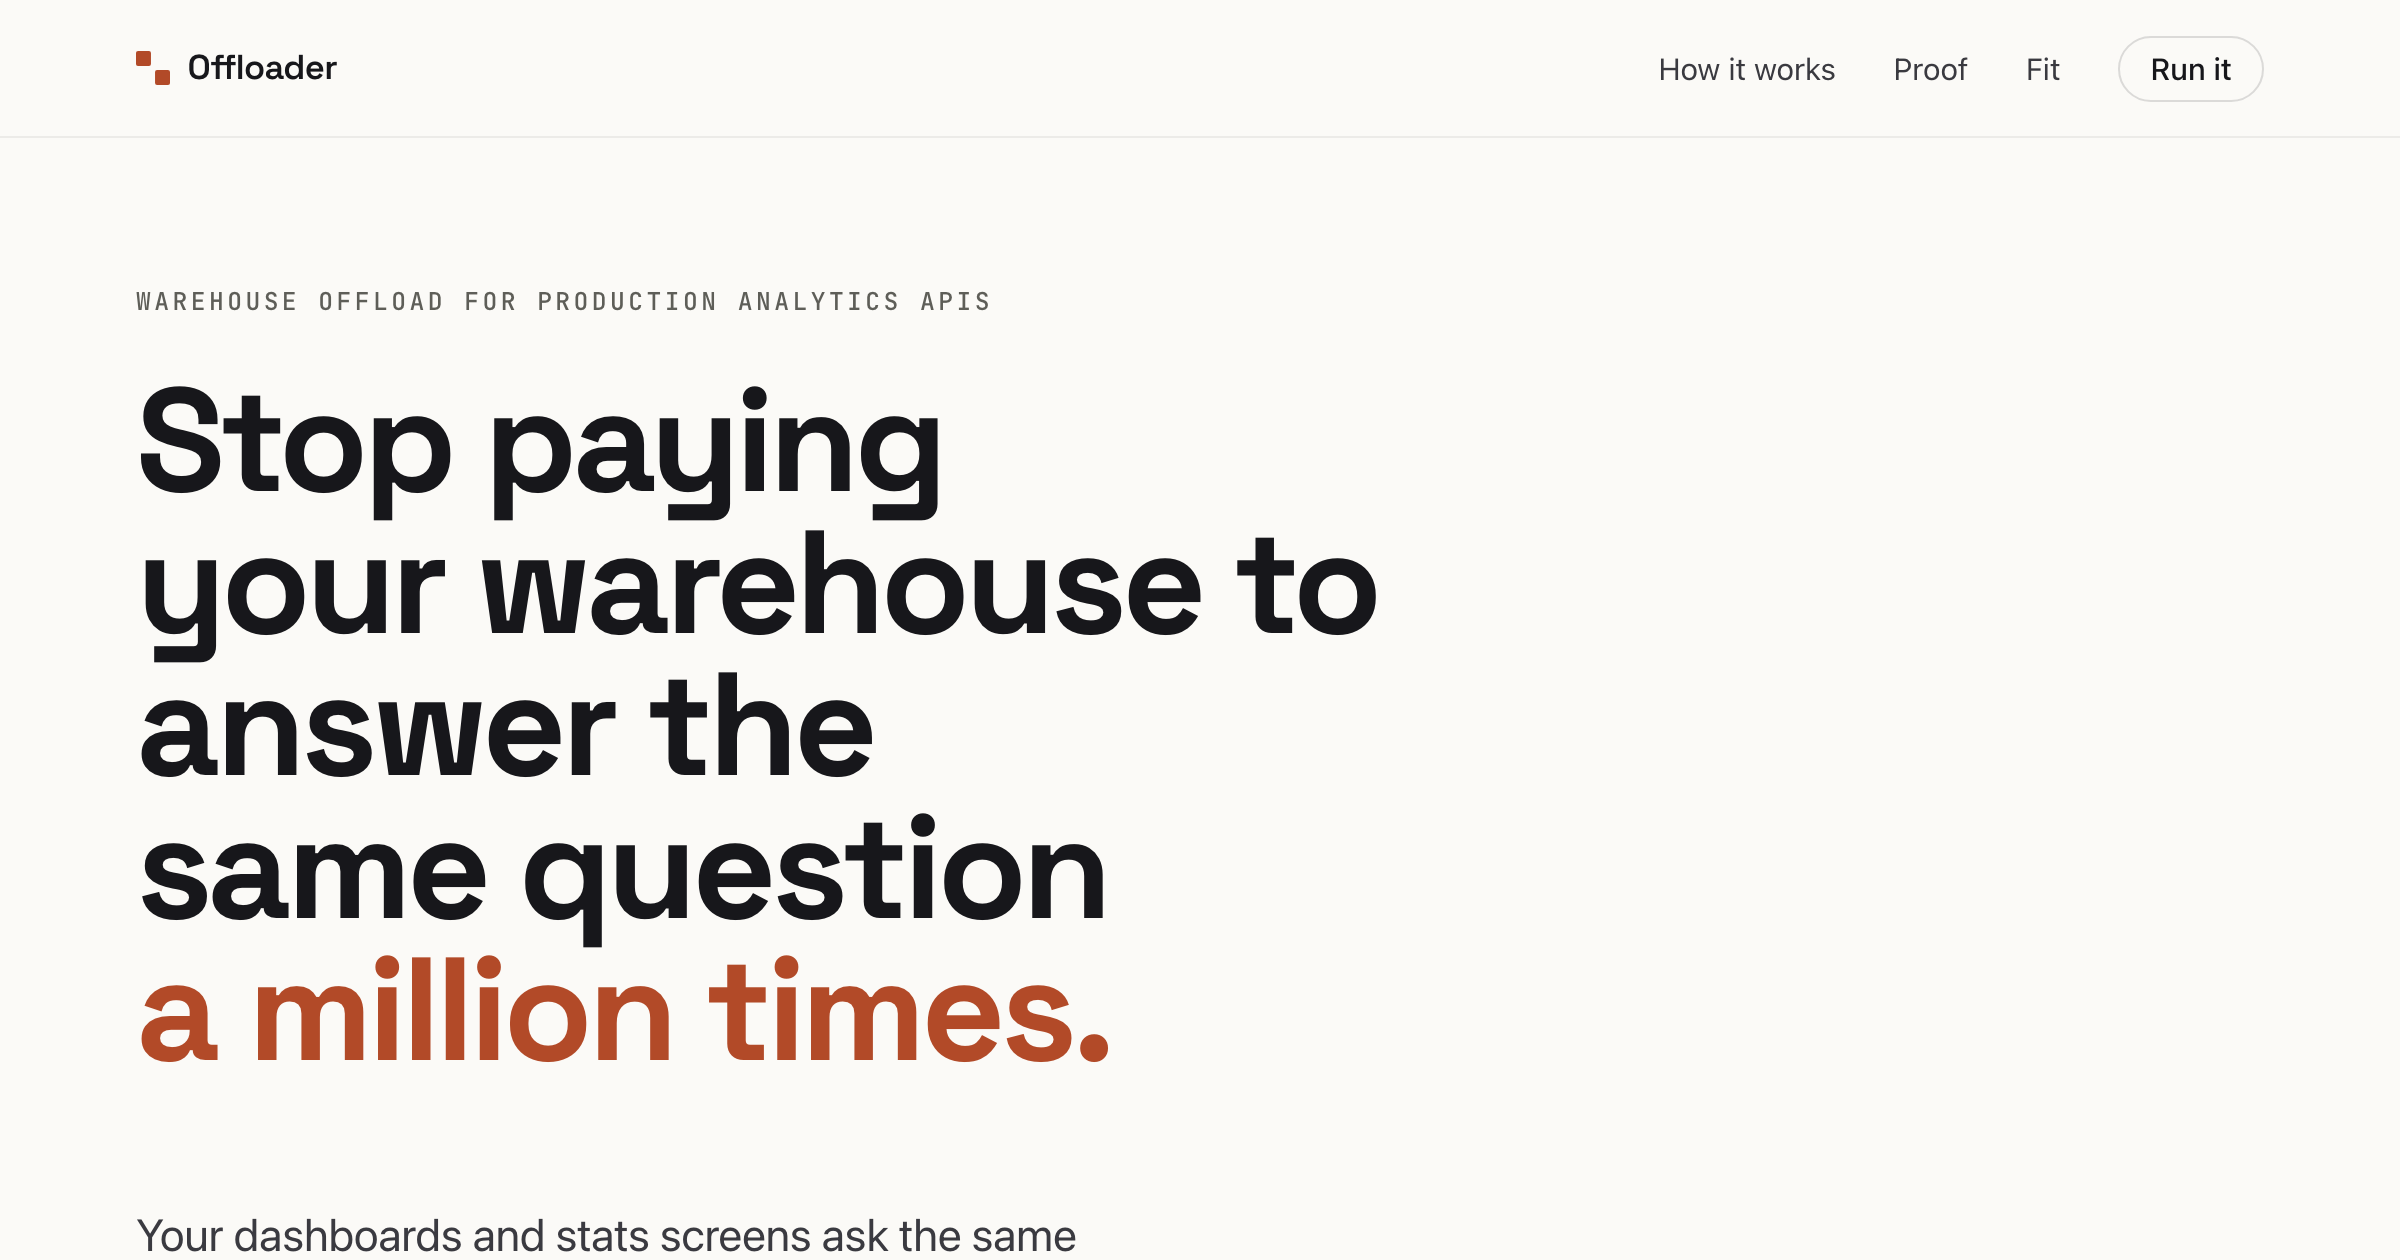
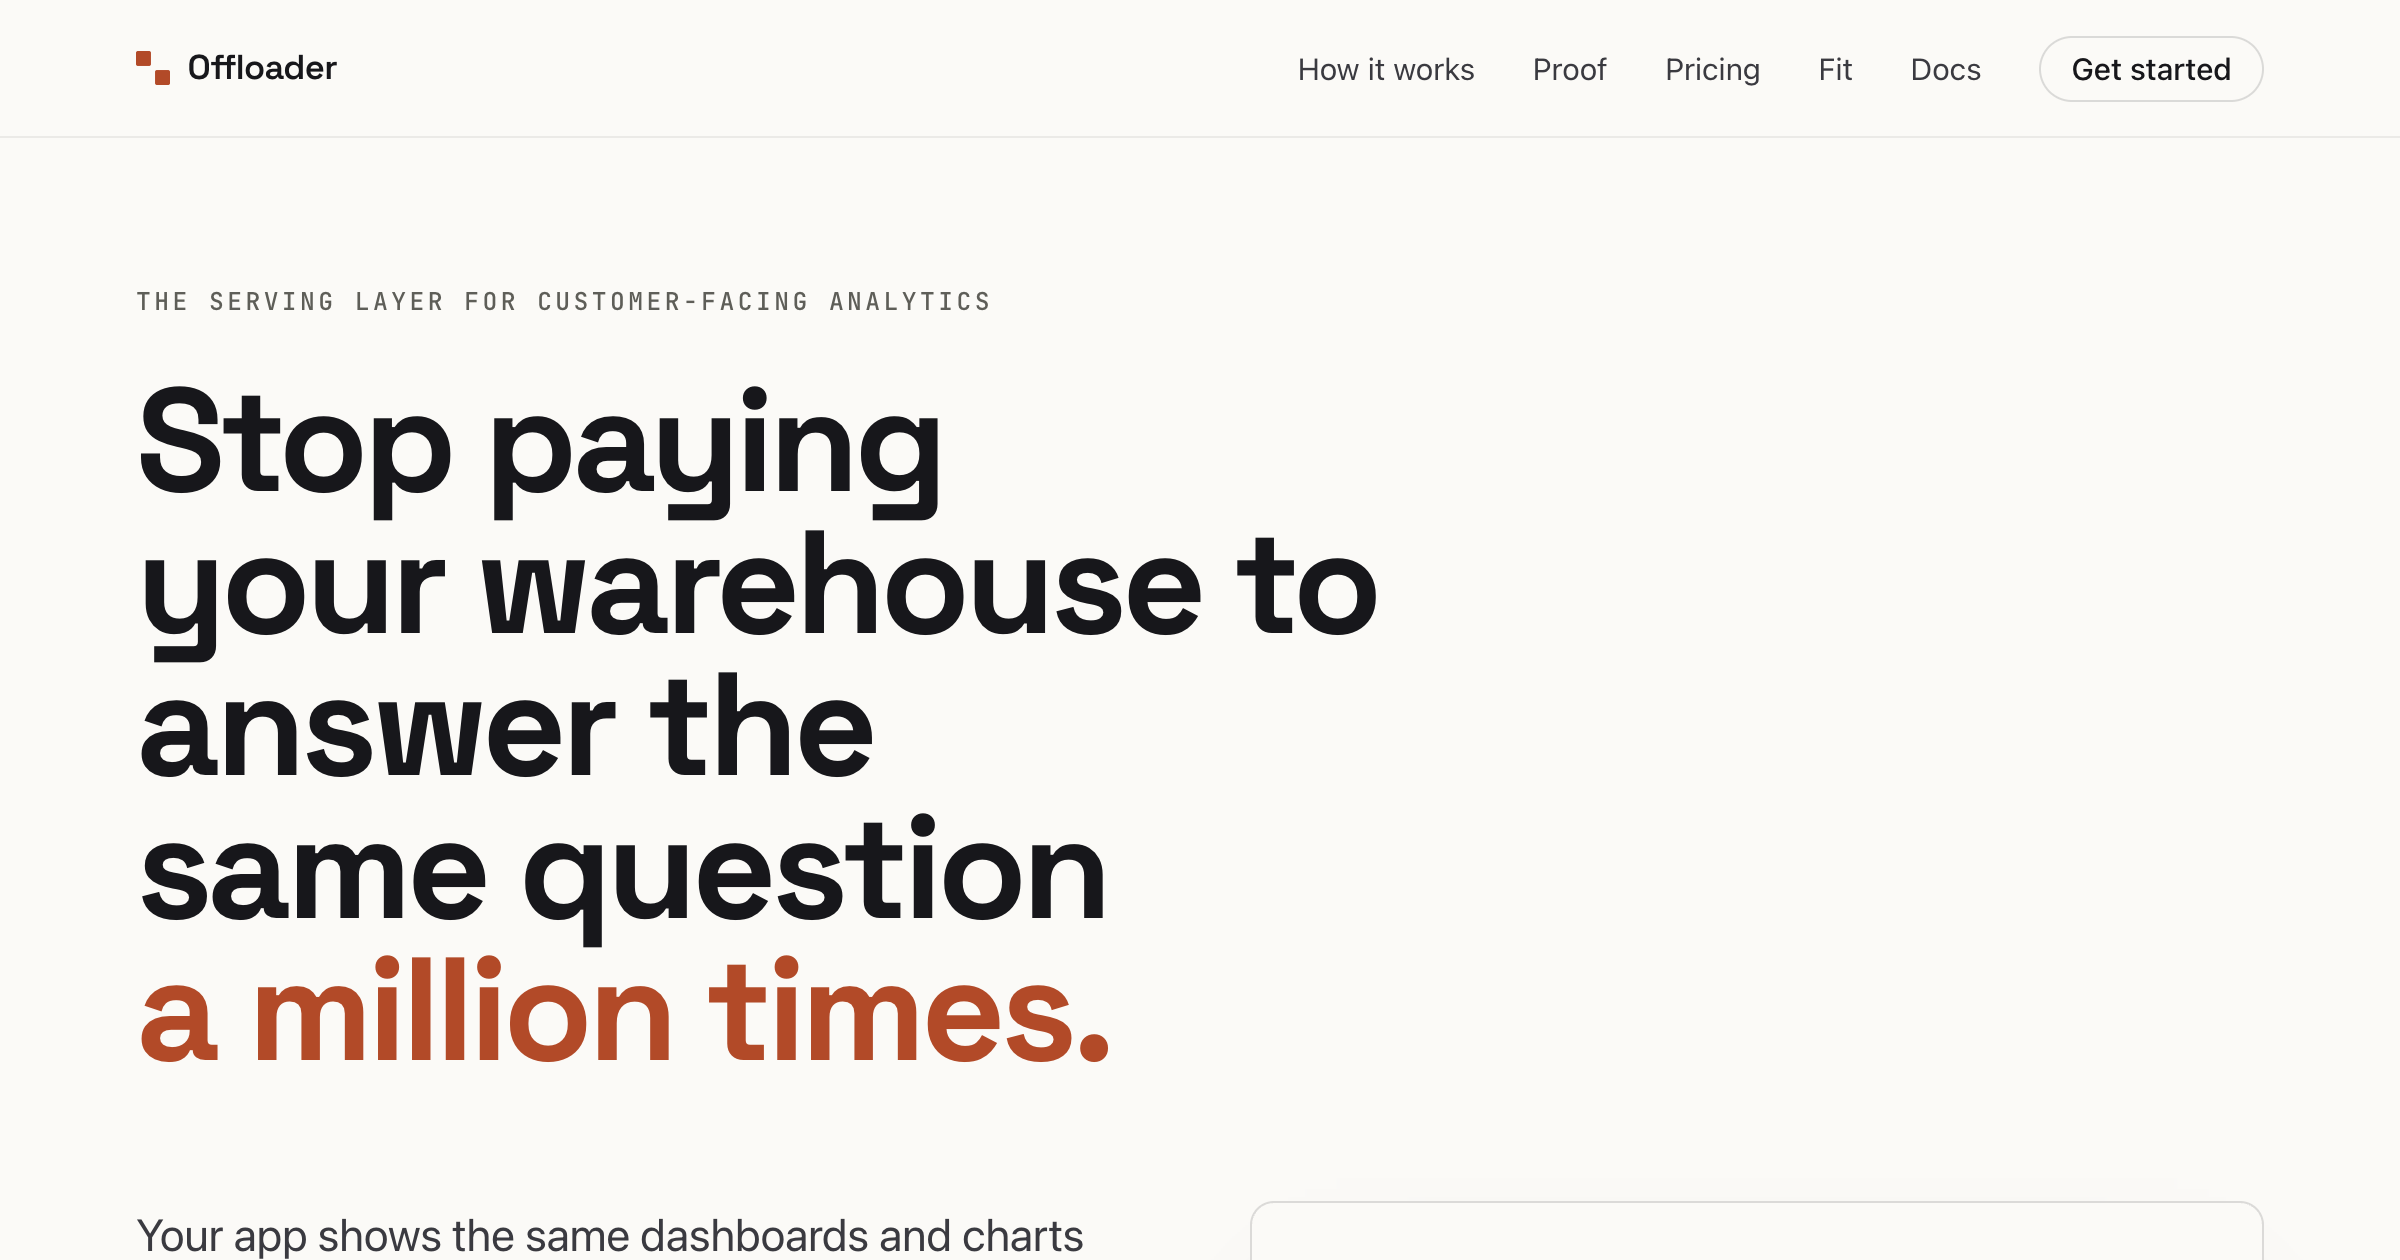
fix(site): regenerate the stale og.png; align <title> and README with the tagline
The social-share image still showed the OLD hero (eyebrow "warehouse offload for
production analytics APIs", old nav) while og:image:alt described the new tagline —
a visible staleness to anyone sharing the link. Regenerated from the current page at
exact OG dimensions (2400×1260, 2x scale). <title> now matches og:title (and carries
the searchable category terms); README's one-liner updated to the same tagline.

diff --git a/site/index.html b/site/index.html
@@ -3,7 +3,7 @@
 <head>
 <meta charset="utf-8">
 <meta name="viewport" content="width=device-width, initial-scale=1">
-<title>Offloader — stop paying your warehouse to answer the same question twice</title>
+<title>Offloader — the serving layer for customer-facing analytics</title>
 <meta name="description" content="Serve your product's repeated analytics reads from cheap, pre-computed snapshots on your own servers — fast, governed, honest about freshness.">
 <meta name="color-scheme" content="light dark">
 <meta property="og:title" content="Offloader — the serving layer for customer-facing analytics">

diff --git a/README.md b/README.md
@@ -2,7 +2,7 @@
 
 [![CI](https://github.com/andrewdryga/offloader/actions/workflows/ci.yml/badge.svg)](https://github.com/andrewdryga/offloader/actions/workflows/ci.yml)
 
-Warehouse offload for production analytics APIs.
+The serving layer for customer-facing analytics.
 
 **In plain terms:** your product's dashboards and stats pages run queries against an
 expensive data warehouse (Snowflake, Databricks, BigQuery) on every page load.